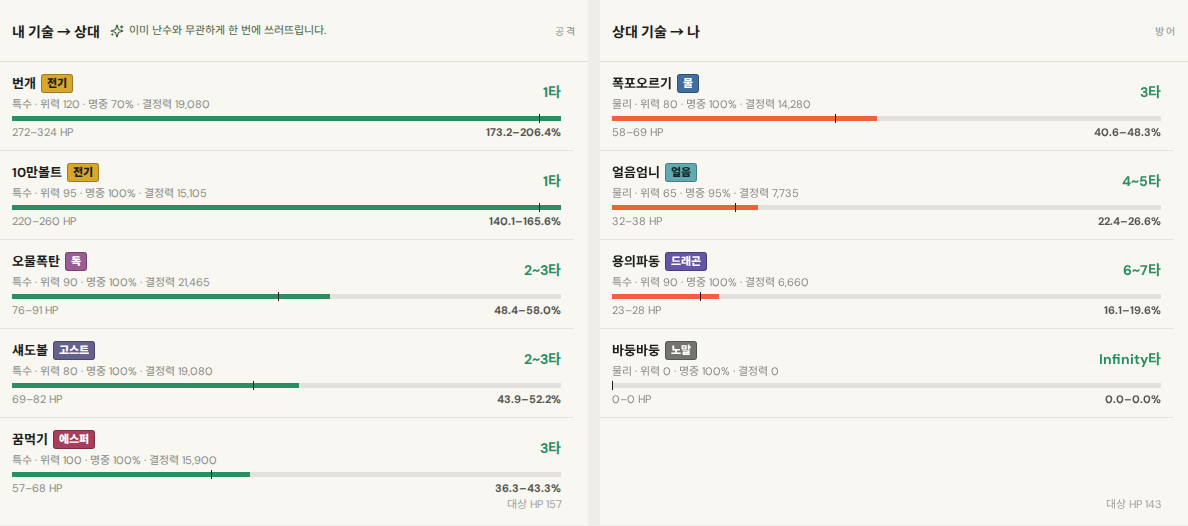
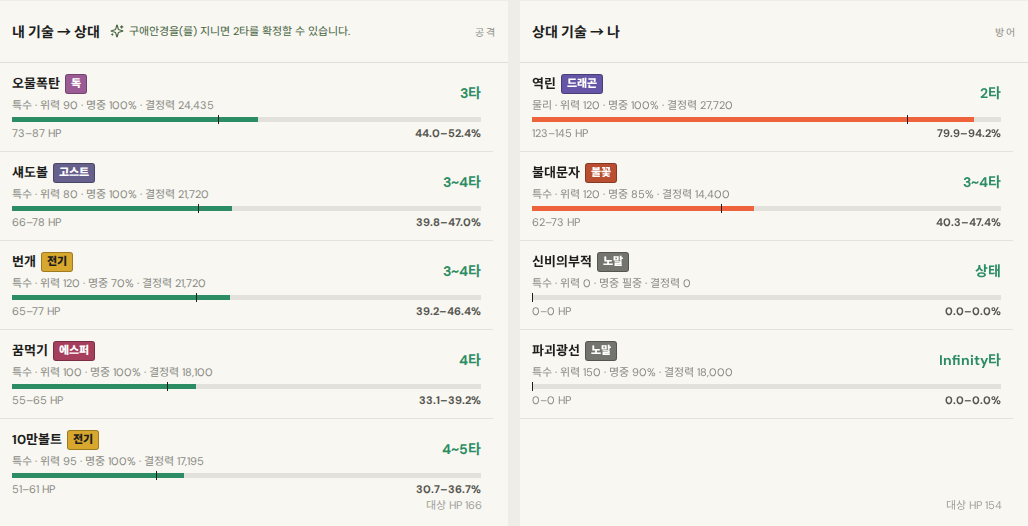
Publish ZZM 8b2d6ee

diff --git a/manual.html b/manual.html
@@ -21,8 +21,8 @@
     <p class="eyebrow">HGSS · USER MANUAL</p>
     <h1>잠빙이 꼭 필요한지,<br>같이 계산해 봅니다.</h1>
     <p class="lead">고스트 타입 챌린지의 잠빙 이야기를 보다가 “이 파티에도 잠재파워 얼음이 꼭 필요한가?”가 궁금해서 만든 취미 도구입니다. 필요한 구성인지, 필요하다면 최소 어느 위력부터 쓸 만한지 살펴봅니다. 일단 위력 70부터 뽑고 보는 마음은 잠깐 내려놓습니다.</p>
-    <p class="meta">하트골드·소울실버 / 4세대 계산 기준 · 매뉴얼 확인일 2026. 09. 06.</p>
-    <p class="meta">캡처는 고스트 샘플을 사용한 실제 배포 화면입니다. 이미지를 누르면 원본을 크게 볼 수 있습니다. 화면의 수치는 선택한 파티·상대·레벨 조건의 예시입니다.</p>
+    <p class="meta">하트골드·소울실버 / 4세대 계산 기준 · 매뉴얼 확인일 2026. 09. 08.</p>
+    <p class="meta">캡처는 고스트·얼음 샘플을 사용한 화면입니다. 이미지를 누르면 원본을 크게 볼 수 있습니다. 기존 캡처의 배치·수치는 업데이트 전 예시일 수 있으며, 아래 설명과 현재 화면의 설정을 함께 확인합니다.</p>
   </div>
   <div class="layout">
     <nav class="toc" aria-label="매뉴얼 목차">
@@ -63,6 +63,19 @@
         <h3>최근 작업을 이어서 엽니다</h3>
         <p><strong>‘최근 작업 불러오기’</strong>는 이 브라우저에 남아 있는 파티 설정과 분석 화면을 복원합니다. 메인과 분석 화면 위쪽에서 사용할 수 있습니다. 기록이 없으면 버튼이 비활성화됩니다.</p>
         <p>설정은 브라우저에 자동으로 보관됩니다. ‘샘플 선택’으로 돌아가도 최근 작업을 다시 불러올 수 있습니다. 다만 여러 작업의 이력 목록은 아니며, 새 작업을 진행하면 최근 기록도 바뀝니다. 다른 기기·브라우저로 자동 동기화되지 않고, 사이트 데이터 삭제나 비공개 브라우징 종료로 사라질 수 있습니다.</p>
+        <h3>여러 파티를 보관하거나 다른 기기로 옮깁니다</h3>
+        <p>상단 <strong>‘파티 저장·불러오기’</strong>를 엽니다. 최근 작업과 달리 프리셋은 이름을 붙여 별도로 보관합니다.</p>
+        <ul>
+          <li><strong>새 프리셋 저장:</strong> 현재 파티와 계산 기준을 저장합니다. 기존 프리셋을 고른 뒤 ‘선택 프리셋 덮어쓰기’를 누르면 확인 후 현재 설정으로 교체합니다.</li>
+          <li><strong>팀 내보내기:</strong> 현재 파티를 <code>.zzm-team.json</code> 파일로 내려받습니다. 브라우저 데이터 삭제에 대비한 백업이나 다른 기기로 옮길 때 사용합니다.</li>
+          <li><strong>팀 가져오기:</strong> 내보낸 JSON 파일을 읽고 미리보기를 확인한 뒤 ‘이 파티 불러오기’를 누릅니다. 파일 선택만으로 현재 파티가 교체되지는 않습니다.</li>
+        </ul>
+        <p>프리셋을 불러오면 현재 작업 파티와 계산 기준이 바뀝니다. 기존 작업도 남기려면 먼저 저장합니다. 기술 네 칸을 직접 채워야 저장되는 것은 아닙니다. 분석에서는 해당 시점에 쓸 수 있는 기술 후보를 별도로 계산합니다.</p>
+        <figure class="manual-shot"><a href="./manual-images/13-team-library.png" target="_blank" rel="noopener"><img src="./manual-images/13-team-library.png" alt="현재 파티를 이름별 프리셋 또는 팀 JSON 파일로 보관하는 창" loading="lazy"></a><figcaption><strong>파티 보관 · 자동 저장과 별도 프리셋</strong><br>현재 작업을 여러 육성안으로 나눠 보관하려면 이름을 달리해 저장합니다.</figcaption></figure>
+        <h3>게임 세이브에서 현재 파티를 가져옵니다</h3>
+        <p><strong>‘세이브에서 파티 가져오기’</strong>에서 게임 내 리포트로 저장한 HGSS <code>.dsv</code> 또는 512 KiB <code>.sav</code>를 선택합니다. 에뮬레이터의 강제 저장·상태 저장 파일은 지원하지 않습니다. 현재 플레이 버전을 고르고, 종·레벨·도구·특성·기술·IV·EV 미리보기를 확인한 뒤 ‘이 파티로 분석하기’를 누릅니다.</p>
+        <p>파일은 브라우저에서 읽으며 서버로 전송하거나 원본을 수정하지 않습니다. <strong>현재 파티만</strong> 가져옵니다. 박스·가방·스토리 진행은 가져오지 않으므로, 세이브를 읽었다고 실제 소지 도구나 진행 시점까지 자동 검증되는 것은 아닙니다.</p>
+        <figure class="manual-shot"><a href="./manual-images/14-save-import.png" target="_blank" rel="noopener"><img src="./manual-images/14-save-import.png" alt="게임 내 리포트 파일과 현재 플레이 버전을 선택하는 세이브 가져오기 창" loading="lazy"></a><figcaption><strong>세이브 가져오기 · 원본 수정 없이 파티만 읽기</strong><br>팀 JSON 파일은 앞의 ‘팀 가져오기’, 게임 리포트는 이 창에서 엽니다.</figcaption></figure>
       </section>
 
       <section class="chapter" id="journey" aria-labelledby="journey-title">
@@ -88,7 +101,7 @@
 
       <section class="chapter" id="party" aria-labelledby="party-title">
         <h2 id="party-title"><small>04 / PARTY &amp; RESOURCES</small>내 파티와 입수 조건을 조정합니다</h2>
-        <p>여정 매트릭스 위쪽에서 기존 파티원의 <strong>‘설정’</strong> 또는 빈 칸의 <strong>‘추가’</strong>를 누르면 편집 창이 열립니다. 최대 여섯 칸을 사용합니다.</p>
+        <p>분석과 여정 모두 <strong>‘+ 포켓몬 추가’·‘파티 편집’</strong>에서 같은 편집 창을 사용합니다. 매트릭스의 ‘설정’ 또는 빈 칸의 ‘추가’로도 열 수 있습니다. 최대 여섯 칸을 사용합니다.</p>
         <ol class="steps">
           <li><strong>바꿀 칸을 고릅니다.</strong> 기존 칸을 선택한 상태로 새 포켓몬을 누르면 그 칸을 교체합니다. 빈 칸을 선택하면 추가합니다. ‘제외’는 선택한 파티원을 빼는 버튼입니다.</li>
           <li><strong>버전과 진행 시점을 확인합니다.</strong> 하트골드·소울실버와 ‘진행 시점’으로 입수 후보를 확인합니다. 이 시점 선택은 편집 창의 후보 목록 기준이며 여정의 모든 전투 시점을 한꺼번에 바꾸지 않습니다.</li>
@@ -102,37 +115,46 @@
         <p><strong>‘사파리 조건 충족’</strong>은 필요한 오브젝트 배치와 경과일을 실제로 확인했을 때 체크합니다. 이 체크는 후보 선택을 위한 확인이며, 모든 여정 시나리오에서 사파리 오브젝트 제한을 해제하는 보증은 아닙니다. 추가 뒤에도 셀의 입수 조건을 확인합니다.</p>
         <figure class="manual-shot"><a href="./manual-images/07-party-stats.png" target="_blank" rel="noopener" aria-label="파티 편집 · 특성·도구·성격·IV·EV 원본 크게 보기"><img width="1220" height="434" src="./manual-images/07-party-stats.png" alt="파티 편집 · 특성·도구·성격·IV·EV" loading="lazy" decoding="async"></a><figcaption><strong>파티 편집 · 특성·도구·성격·IV·EV</strong><br>눌러서 편집을 선택하면 조정 화면으로 전환됩니다. 위쪽 포켓몬 선택으로 후보 화면에 돌아갑니다. <a href="./manual-images/07-party-stats.png" target="_blank" rel="noopener">원본 크게 보기 ↗</a></figcaption></figure>
         <h3>진화와 외부 진화 후 반환</h3>
+        <p>추가할 진화 경로가 하나면 바로 파티에 넣습니다. 여러 경로가 있으면 이미지가 있는 진화형 선택에서 목표를 정하고 추가합니다. 선택한 최종 진화형을 모든 전투에서 바로 쓰는 것은 아니며, 각 전투의 레벨·입수 조건에 맞는 형태로 계산합니다. 능력치 조정 화면에서는 ‘← 포켓몬 선택’으로 후보 목록에 돌아갑니다.</p>
+        <figure class="manual-shot"><a href="./manual-images/17-evolution-choice.png" target="_blank" rel="noopener"><img src="./manual-images/17-evolution-choice.png" alt="뚜벅쵸에서 라플레시아 또는 아르코 등 목표 진화형을 고르는 화면" loading="lazy"></a><figcaption><strong>분기 진화 · 파티에 넣기 전에 목표 선택</strong><br>진화형을 선택하고 추가·교체 버튼을 누릅니다. 회색 선택지의 제한 사유도 확인합니다.</figcaption></figure>
         <p>계산은 등록된 진화 규칙에 따라 레벨·친밀도·일반 통신진화 등을 반영합니다. 진화 도구와 방법에는 별도 조건이 있으므로 레벨만 올렸다고 모든 진화가 열리지는 않습니다. 사용자가 고를 수 있는 친밀도·능력치 분기 등은 ‘가지 진화’에 표시됩니다.</p>
         <p><strong>‘외부 진화 후 반환’</strong>은 HGSS에서 원종을 먼저 얻은 뒤, 등록된 외부 진화 조건을 거쳐 같은 개체가 돌아온다고 가정하는 예외입니다. 다른 게임에서 아무 포켓몬이나 반입해도 된다는 뜻은 아닙니다. 자신의 챌린지가 외부 교환을 허용하는지와 셀의 진화 경로를 함께 확인합니다.</p>
         <h3>챌린지 스타터는 명시적인 예외입니다</h3>
         <p>‘챌린지 스타터’에서 규칙을 고르면 해당 버전에 등록된 시작 지급 후보를 볼 수 있습니다. 실제 지급 후보를 선택한 파티원에는 ‘챌린지 스타트 지급’ 근거가 표시됩니다. 일반 야생 입수와 다른 조건이며, 같은 종을 평범하게 선택했다고 자동으로 예외가 생기는 것은 아닙니다.</p>
         <p>샘플에는 이런 예외 스타팅이 포함될 수 있습니다. 일반 샘플의 기본 IV·EV 안내를 모든 예외 스타터에 그대로 적용하지 말고, 선택 후 표시된 실제 수치를 확인합니다.</p>
+        <p>추천 샘플은 일반 IV 10 기준에서 일부 멤버의 EV를 합계 안에서 나눠 보완한 구성입니다. 예외 지급 개체는 별도 조건을 유지합니다. 현재 기본 샘플은 구애 시리즈를 제외하는 방향으로 보완했으며, 내 자폭·대폭발을 대응 수단으로 사용하지 않습니다. 수동으로 다른 도구나 성격을 선택한 결과와 샘플 기본 결과를 구별합니다. 여러 대안을 검토한 추천이지 모든 파티 조합의 최적해를 증명한 결과는 아닙니다.</p>
       </section>
 
       <section class="chapter" id="matrix" aria-labelledby="matrix-title">
         <h2 id="matrix-title"><small>05 / READ THE MATRIX</small>매트릭스의 한 칸을 읽습니다</h2>
-        <p><strong>행은 상대 포켓몬, 열은 내 파티원</strong>입니다. 한 칸은 그 둘의 비교입니다. 각 상대에게 성공 셀이 하나 이상 있으면 그 상대를 ‘대응’한 것으로 셉니다. ‘대응 3/4마리’는 상대 네 마리 중 세 마리에 계산상 대응 수단이 있다는 뜻입니다.</p>
+        <p><strong>행은 상대 포켓몬, 열은 내 파티원</strong>입니다. 한 칸은 그 둘의 비교입니다. 요약은 상대별로 가장 좋은 대응 경로를 한 번만 셉니다. 예를 들어 <strong>직접 대응 2/4마리 · 회복루프 대응 1마리 · 미대응 1마리</strong>라면 네 상대 중 둘은 직접 공격, 하나는 회복약을 섞는 경로로만 대응하고 하나는 아직 대응하지 못한 상태입니다.</p>
         <dl class="status-list">
-          <dt>공략 성공</dt><dd>현재 계산 기준에서 유리한 결과입니다. 일반 판정은 내 최저 피해 기준 타수와 상대 최대 피해 기준 피격 타수, 선공 조건을 비교합니다. 같은 타수라면 확실한 선공 여부가 중요합니다.</dd>
-          <dt>공략 실패</dt><dd>현재 조건에서 성공 기준을 충족하지 못했습니다. 다른 파티원, 도구, 능력치나 잠재파워를 비교할 출발점입니다. 게임에서 어떤 방법으로도 이길 수 없다는 뜻은 아닙니다.</dd>
+          <dt>돌파가능 · 직접 대응</dt><dd>현재 공격으로 유리한 결과입니다. 일반 판정은 내 최저 피해 기준 타수와 상대 최대 피해 기준 피격 타수, 선공 조건을 비교합니다. 같은 타수라면 확실한 선공 여부가 중요합니다. 명중 실패나 급소까지 없는 승리를 보장하지는 않습니다.</dd>
+          <dt>회복루프돌파가능</dt><dd>직접 돌파는 어렵지만, 계산에 포함된 고급상처약 회복 경로로 대응할 수 있습니다. 직접 대응과 별도로 셉니다.</dd>
+          <dt>돌파불가</dt><dd>현재 조건에서 위 두 기준을 충족하지 못했습니다. 다른 파티원, 도구, 능력치나 잠재파워를 비교할 출발점입니다. 게임에서 어떤 방법으로도 이길 수 없다는 뜻은 아닙니다.</dd>
           <dt>공략 제외</dt><dd>해당 시점의 입수 조건 등에 맞지 않는 파티원입니다. 여정에서는 이 셀을 눌러 상세 분석으로 이동할 수 없습니다. 모든 파티원이 제외되면 상대 자체가 사라지는 대신 ‘사용 가능한 파티원 없음’으로 남습니다.</dd>
           <dt>계산 불가</dt><dd>필수 정보나 지원하지 않는 효과 때문에 판단할 수 없습니다. 성공으로 세지 않습니다. 실패와도 구별해서 확인합니다.</dd>
         </dl>
         <h3>공격·피격·선공 표시</h3>
         <p>셀에는 실제 적용 종과 레벨, 공격·피격 대표 기술, 타입, 명중률, 타수, 피해 HP와 비율이 표시됩니다. 아래의 기술 습득·진화·입수 설명은 그 결과를 만든 조건입니다. 사용 가능한 셀을 누르면 해당 내 포켓몬과 상대를 선택한 상세 분석으로 이동합니다.</p>
-        <figure class="manual-shot"><a href="./manual-images/11-matrix-cells.png" target="_blank" rel="noopener" aria-label="매트릭스 · 한 상대와 내 파티의 비교 원본 크게 보기"><img width="1170" height="386" src="./manual-images/11-matrix-cells.png" alt="매트릭스 · 한 상대와 내 파티의 비교" loading="lazy" decoding="async"></a><figcaption><strong>매트릭스 · 한 상대와 내 파티의 비교</strong><br>목호의 갸라도스 한 행입니다. 선공 → 공격 → 피격 → 태그·입수 근거 순서로 읽습니다. 클릭하면 해당 조합을 선택합니다. <a href="./manual-images/11-matrix-cells.png" target="_blank" rel="noopener">원본 크게 보기 ↗</a></figcaption></figure>
+        <figure class="manual-shot"><a href="./manual-images/11-matrix-cells.png" target="_blank" rel="noopener" aria-label="매트릭스 · 한 상대와 내 파티의 비교 원본 크게 보기"><img width="1170" height="386" src="./manual-images/11-matrix-cells.png" alt="매트릭스 · 한 상대와 내 파티의 비교" loading="lazy" decoding="async"></a><figcaption><strong>매트릭스 · 한 상대와 내 파티의 비교</strong><br>목호의 망나뇽 한 행입니다. 선공 → 공격 → 피격 → 태그·입수 근거 순서로 읽습니다. 클릭하면 해당 조합을 선택합니다. <a href="./manual-images/11-matrix-cells.png" target="_blank" rel="noopener">원본 크게 보기 ↗</a></figcaption></figure>
         <h3>작은 태그에 담긴 조건</h3>
         <p><span class="tag">잠빙52+</span> 같은 표시는 <strong>특공 EV 252와 최소 합법 IV 예시</strong>를 기준으로, 잠재파워 얼음 위력 52부터 확정 1타가 가능한 추천이라는 뜻입니다. 숫자는 표시 형식의 예시입니다. 현재 파티의 잠재파워가 이미 그 타입·위력이라는 뜻도, 파티에 꼭 필요하다는 뜻도 아닙니다.</p>
         <p><span class="tag">돌파가능</span>은 직접 공격으로 유리한 경우, <span class="tag">회복루프돌파가능</span>은 직접 돌파는 어렵지만 충분한 고급상처약(200 HP 회복)을 섞어 공격할 수 있는 경우입니다. 둘 다 아니면 <span class="tag">돌파불가</span>로 표시합니다.</p>
         <p>분석·여정의 전체/트레이너별/선택 포켓몬 요약은 직접 대응, 회복루프 대응, 미대응, 계산 불가를 별도로 집계합니다. 같은 상대에 직접 대응과 회복루프 대응이 모두 있으면 직접 대응에만 포함합니다. 회복루프 대응은 직접 대응할 파티원 없이 회복 경로로만 돌파 가능한 상대 수이며 황색으로 구분합니다. 모든 파티원이 입수 전이면 미대응에 포함하며 계산 불가와 섞지 않습니다.</p>
         <p><span class="tag">회복루프가능</span>은 맞은 결과를 확인한 뒤 다음 행동을 고르는 피해 기준입니다. 남은 HP가 다음 급소 최대 피해보다 많으면 공격하고, 이하면 고급상처약으로 회복합니다. 따라서 급소가 HP 50%를 넘어도 일반 최대 피해+급소 최대 피해가 HP보다 작으면 일반타 뒤 한 번 더 공격할 수 있습니다. 일반 피해는 200 미만, 급소 피해는 200 이하여야 회복 중에도 버틸 수 있습니다. 급소를 먼저 맞거나 연속 급소가 나오면 회복을 반복합니다. 회복량은 최대 HP를 넘기지 않는 200 HP입니다. 이 운영이 불가능하고 빗나감·낮은 난수·급소 회피·힘껏펀치 조건에 의존하면 <span class="tag">조건부 회복루프 가능</span>이며 성공으로 올리지 않습니다. 아이템 재고·PP·상태이상·추가 효과까지 포함한 무한 회복이나 승리 보장은 아닙니다. 프레젠트 승률은 별도의 PP 제한 회복 계획으로 계산합니다.</p>
         <p class="small">검사 중 대응 수치는 완료된 계산만 반영해 변할 수 있습니다. 전체 판정은 계산 완료 여부와 ‘계산 불가’ 개수를 함께 읽습니다. 태그를 놓쳤다면 상세 분석에서 같은 조건을 다시 확인합니다.</p>
+        <p><span class="tag">급소주의</span> 앞의 딱구리 이미지는 경고 아이콘입니다. <strong>현재 공격 순서에서 상대 공격 한 번이 급소가 되면 쓰러질 수 있는 직접 돌파 셀</strong>에 붙습니다. 돌파가능 판정은 유지합니다. 급소 확률을 계산해 전체 승률로 바꾼 숫자는 아니며, 태그가 없다고 모든 실전 변수가 안전하다는 뜻도 아닙니다.</p>
+        <figure class="manual-shot narrow"><a href="./manual-images/20-critical-warning.png" target="_blank" rel="noopener"><img style="width:auto;max-width:100%;margin:16px auto" src="./manual-images/20-critical-warning.png" alt="딱구리 아이콘이 붙은 급소주의 태그" loading="lazy"></a><figcaption><strong>급소주의 · 직접 돌파 판정은 유지</strong><br>아이콘 자체가 별도 파티원이나 추천 포켓몬을 뜻하지는 않습니다.</figcaption></figure>
+        <figure class="manual-shot"><a href="./manual-images/15-recovery-coverage.png" target="_blank" rel="noopener"><img src="./manual-images/15-recovery-coverage.png" alt="얼음 샘플 여정의 직접 대응과 회복루프 대응을 분리한 집계" loading="lazy"></a><figcaption><strong>현재 여정 · 대응 경로를 따로 읽기</strong><br>직접 대응과 회복루프 대응은 중복하지 않습니다. 약이 필요한 상대를 직접 대응에 합쳐 읽지 않습니다.</figcaption></figure>
       </section>
 
       <section class="chapter" id="analysis" aria-labelledby="analysis-title">
         <h2 id="analysis-title"><small>06 / DETAILED ANALYSIS</small>어디에서 막히는지 확인합니다</h2>
         <h3>상대와 내 포켓몬 선택</h3>
         <p>상대 트레이너 목록에서 이름·클래스·ID를 검색할 수 있습니다. 상대 포켓몬 종·도감번호, 만나는 위치, 트레이너 클래스, 최소·최대 레벨, 싱글·더블 필터를 함께 사용해 목록을 좁힙니다. 결과가 없으면 입력한 조건을 지우거나 선택을 ‘전체’로 되돌립니다.</p>
+        <p><strong>‘위치 정보’는 기본적으로 ‘위치 있는 상대만’</strong>입니다. 찾는 트레이너가 없으면 ‘위치 없는 상대 포함’ 또는 ‘위치 없는 상대만’으로 바꿉니다. 위치 유무와 전투 시점 지정 여부는 별개입니다.</p>
+        <figure class="manual-shot narrow"><a href="./manual-images/18-location-filter.png" target="_blank" rel="noopener"><img src="./manual-images/18-location-filter.png" alt="위치가 등록되지 않은 트레이너를 포함하거나 따로 찾는 위치 정보 필터" loading="lazy"></a><figcaption><strong>목록에 상대가 없을 때</strong><br>이름 검색과 별도로 위치 정보 필터를 확인합니다.</figcaption></figure>
         <p>위쪽 ‘내 포켓몬’에서 내 파티원을, 트레이너 이름 아래 상대 탭에서 상대 포켓몬을 고릅니다. 전체 상성 매트릭스의 셀을 누르면 둘을 한 번에 선택합니다. 열 머리글과 상대 행 이름으로 각 축만 바꿀 수도 있습니다.</p>
         <p>여정에서 들어오면 선택한 전투의 시점을 이어받습니다. 상세 분석에서 트레이너를 바꾸면 등록된 주요 전투는 시점을 다시 참조하고, 그 외에는 미지정일 수 있습니다. ‘기술 습득 정보’의 현재 체크포인트/전투 시점 미지정 표시를 확인합니다.</p>
         <figure class="manual-shot narrow"><a href="./manual-images/09-trainer-filters.png" target="_blank" rel="noopener" aria-label="상세 분석 · 상대 검색 조건 원본 크게 보기"><img width="283" height="195" src="./manual-images/09-trainer-filters.png" alt="상세 분석 · 상대 검색 조건" loading="lazy" decoding="async"></a><figcaption><strong>상세 분석 · 상대 검색 조건</strong><br>상대 포켓몬·위치·클래스·레벨·싱글/더블 조건을 좁히는 영역입니다. 이름·ID 검색은 이 영역 위쪽에 있습니다. <a href="./manual-images/09-trainer-filters.png" target="_blank" rel="noopener">원본 크게 보기 ↗</a></figcaption></figure>
@@ -148,6 +170,7 @@
         <figure class="manual-shot"><a href="./manual-images/08-build-controls.png" target="_blank" rel="noopener" aria-label="상세 분석 · 내 파티와 육성값 원본 크게 보기"><img width="1188" height="652" src="./manual-images/08-build-controls.png" alt="상세 분석 · 내 파티와 육성값" loading="lazy" decoding="async"></a><figcaption><strong>상세 분석 · 내 파티와 육성값</strong><br>맨 위에서 내 포켓몬을 고르고 도구·특성·성격·IV·EV를 조정합니다. 초기값 버튼은 항목별로 동작합니다. <a href="./manual-images/08-build-controls.png" target="_blank" rel="noopener">원본 크게 보기 ↗</a></figcaption></figure>
         <h3>요약 카드와 피해 표</h3>
         <figure class="manual-shot"><a href="./manual-images/04-detail-analysis.png" target="_blank" rel="noopener"><img width="1188" height="331" src="./manual-images/04-detail-analysis.png" alt="팬텀과 망나뇽의 종·레벨·HP·특성 및 공격·피격·선공 요약" loading="lazy" decoding="async"></a><figcaption><strong>상세 분석 · 선택한 두 포켓몬과 요약</strong><br>내 포켓몬과 상대의 종·레벨·HP가 의도한 조건인지 먼저 확인한 뒤, 공격·피격 타수와 선공 조건을 읽습니다. <a href="./manual-images/04-detail-analysis.png" target="_blank" rel="noopener">원본 크게 보기 ↗</a></figcaption></figure>
+        <figure class="manual-shot"><a href="./manual-images/19-summary-cards.png" target="_blank" rel="noopener"><img src="./manual-images/19-summary-cards.png" alt="대표 공격·피격·추천 보완·선공 조건을 나눈 네 요약 카드" loading="lazy"></a><figcaption><strong>공격·피격·선공을 각각 확인</strong><br>한 방을 낼 화력과 먼저 공격할 스피드는 서로 다른 조건입니다.</figcaption></figure>
         <p>‘가장 빠른 공략’은 내 대표 공격과 타수를, ‘최대 피격 위험’은 상대 대표 공격과 피해를 보여 줍니다. ‘추천 보완’은 확정 타수를 개선할 육성 방향을 제안합니다. ‘선공 조건’은 현재·상대 스피드와 필요한 스피드 EV를 보여 주며, EV 252로도 후공인 경우도 표시합니다.</p>
         <p>‘내 기술 → 상대’와 ‘상대 기술 → 나’에서 기술별 물리·특수 구분, 위력, 명중, 결정력, 피해 범위를 비교합니다. <strong>확정 1타</strong>는 최저 피해로도 쓰러뜨릴 수 있다는 뜻입니다. 최대 피해가 100%를 넘는 것만으로 확정 1타가 되지는 않습니다.</p>
         <p>HP는 피해량의 기준입니다. 내 파티 탭과 대결 요약의 HP, 피해 표 아래 ‘대상 HP’를 함께 확인합니다. 이 화면에서 HP를 직접 입력하는 기능은 없습니다. 결정력은 공격 측 화력, 물내·특내는 물리·특수 내구를 비교하는 지표이며 승률의 퍼센트가 아닙니다.</p>
@@ -158,7 +181,10 @@
         <figure class="manual-shot"><a href="./manual-images/12-move-acquisition.png" target="_blank" rel="noopener" aria-label="상세 분석 · 기술 습득 위치와 시점 원본 크게 보기"><img width="1188" height="1217" src="./manual-images/12-move-acquisition.png" alt="상세 분석 · 기술 습득 위치와 시점" loading="lazy" decoding="async"></a><figcaption><strong>상세 분석 · 기술 습득 위치와 시점</strong><br>기술 이름 옆 상태와 각 카드의 위치·시점·자원 안내를 확인합니다. 입수 근거를 읽는 목록이지 기술 장착 버튼은 아닙니다. <a href="./manual-images/12-move-acquisition.png" target="_blank" rel="noopener">원본 크게 보기 ↗</a></figcaption></figure>
         <h3>딜리버드 프레젠트 전용 패널</h3>
         <p>해당 조건에서는 일반 타수 비교 대신 프레젠트 승률 패널이 나옵니다. 프레젠트만 사용하고 상대는 대표 공격을 반복하며, 교체·내 회복 아이템·급소는 제외합니다. 프레젠트 PP 15, 상대 기술 PP 20을 가정하고, 명중·위력·상대 회복 분기를 계산합니다. 이 제한 아래 승률 80% 이상을 성공으로 표시하며 일반 확정 공략과 구별합니다.</p>
-        <p>계산된 승률이 80% 미만이면 공략 실패입니다. 계산 불가는 조건 미지원이나 계산 한도로 미확정인 경우입니다. 직접 돌파가 안 되고 급소까지 안전하게 회복할 수 있으면 고급상처약→프레젠트도 계산합니다. 회복마다 HP에 200을 더해 최대 HP로 제한한 뒤 피격을 뺍니다. 추가 회복이 필요하면 그 턴과 상대 PP도 차감합니다. 상대 PP 20 안에서 최대 10회 공격하며, 추가 회복이 많으면 공격 기회는 줄어듭니다. 필요한 약 수량은 결과에 표시합니다. 승률 80% 이상일 때만 회복루프돌파가능으로 표시하며 상대의 다른 기술·상태이상·추가 효과는 별도입니다.</p>
+        <p>계산된 승률이 <strong>80% 미만이면 공략 실패</strong>입니다. 계산 불가는 조건 미지원이나 계산 한도로 미확정인 경우입니다. 직접 돌파가 안 되고 급소까지 안전하게 회복할 수 있으면 고급상처약을 섞는 경로도 계산합니다.</p>
+        <p>회복 경로는 <strong>남은 HP로 다음 최대 급소를 버티면 공격하고, 그렇지 않으면 회복</strong>합니다. 매번 공격 전에 약을 쓰는 고정 교대 방식이 아닙니다. 고급상처약은 HP 200을 더하되 최대 HP를 넘지 않으며, 공격·회복 모두 상대 PP를 소비합니다. 프레젠트 PP 15·상대 PP 20 안에서 가능한 공격 횟수와 약 수량을 계산합니다. 상대 자뭉열매의 1회 회복도 반영합니다. 현재 내 지닌 도구 등 미지원 조건은 계산 불가로 남을 수 있습니다.</p>
+        <p>예를 들어 얼음 샘플의 딜리버드 대 호일 스라크는 현재 설정에서 <strong>프레젠트 11회·고급상처약 9개, 약 82.87%</strong>로 회복루프 대응입니다. 상대 자뭉열매를 포함한 전용 계산 예시이며 다른 레벨·능력치에 공통인 수치는 아닙니다. 80% 이상이어도 상대의 다른 기술·상태이상·추가 효과까지 포함한 실제 전투 전체 승률은 아닙니다.</p>
+        <figure class="manual-shot"><a href="./manual-images/16-present-recovery.png" target="_blank" rel="noopener"><img src="./manual-images/16-present-recovery.png" alt="딜리버드 대 스라크의 프레젠트 회복 병행 승률과 고급상처약 수량" loading="lazy"></a><figcaption><strong>프레젠트 전용 · 회복 병행 판정</strong><br>승률만 보지 말고 사용 전략, 필요한 약 수량, PP와 제외 조건을 함께 읽습니다.</figcaption></figure>
         <p>위쪽 <strong>‘주요 전투 여정’</strong>으로 돌아가 조정한 파티를 다시 확인합니다. <strong>‘샘플 선택’</strong>은 시작 화면으로 이동합니다.</p>
       </section>
 
@@ -172,10 +198,11 @@
           <li><strong>위력 30~70을 비교합니다.</strong> ‘현재 EV에서 확정 1타 최소 위력’과 피해 HP·비율을 확인합니다. 타입을 바꾸면 그 타입의 최소 확정 1타 위력, 없으면 70으로 선택값이 바뀝니다.</li>
           <li><strong>표시된 IV와 실제 파티를 비교합니다.</strong> 필요하다면 ‘이 잠재능력으로 변경’을 누르고, 본래 파티의 공격·방어·스피드 결과를 다시 확인합니다.</li>
         </ol>
-        <figure class="manual-shot"><a href="./manual-images/05-hidden-power.png" target="_blank" rel="noopener" aria-label="잠재파워 · 타입·위력·특공 EV와 IV 예시 원본 크게 보기"><img width="868" height="464" src="./manual-images/05-hidden-power.png" alt="잠재파워 · 타입·위력·특공 EV와 IV 예시" loading="lazy" decoding="async"></a><figcaption><strong>잠재파워 · 타입·위력·특공 EV와 IV 예시</strong><br>팬텀 대 목호의 망나뇽 예시입니다. 여기서는 특공 EV 252·얼음 위력 61부터 확정 1타로 계산됩니다. 이 값은 모든 파티에 공통인 기준이 아닙니다. <a href="./manual-images/05-hidden-power.png" target="_blank" rel="noopener">원본 크게 보기 ↗</a></figcaption></figure>
+        <figure class="manual-shot"><a href="./manual-images/05-hidden-power.png" target="_blank" rel="noopener" aria-label="잠재파워 · 타입·위력·특공 EV와 IV 예시 원본 크게 보기"><img width="868" height="464" src="./manual-images/05-hidden-power.png" alt="잠재파워 · 타입·위력·특공 EV와 IV 예시" loading="lazy" decoding="async"></a><figcaption><strong>잠재파워 · 타입·위력·특공 EV와 IV 예시</strong><br>팬텀 대 목호의 망나뇽 예시입니다. 추천 최소 위력과 현재 선택한 위력·특공 EV를 구별하고, IV 예시와 피해를 확인한 뒤 적용합니다. 이 값은 모든 파티에 공통인 기준이 아닙니다. <a href="./manual-images/05-hidden-power.png" target="_blank" rel="noopener">원본 크게 보기 ↗</a></figcaption></figure>
         <h3>‘최소 합법 IV’는 육성 최적값이 아닙니다</h3>
         <p>계산기는 선택한 타입·위력을 만족하는 <strong>여섯 IV의 합이 최소인 합법 예시</strong>를 사용합니다. 잠재파워 공식에 필요한 비트만 남긴 낮은 IV 조합이므로, 화면에 0~3 같은 값이 나오는 것은 오류가 아닙니다.</p>
         <p>이 표는 높은 능력치를 보존하는 최적 IV 추천이나 실제 교배 난이도 안내가 아닙니다. 같은 타입·위력을 만드는 더 높은 IV 조합도 있을 수 있습니다. IV를 올리면 특공뿐 아니라 체력·내구·스피드가 달라지고, IV의 바뀐 비트에 따라 잠재파워 타입·위력 자체도 바뀔 수 있습니다.</p>
+        <p><strong>추천 최소 위력과 현재 선택 위력은 다릅니다.</strong> 매트릭스의 ‘잠빙63+’는 추천 기준이고 계산기의 ‘위력 69’는 지금 선택한 비교값입니다. 적용 버튼을 누르기 전 선택 위력과 IV 예시를 함께 확인합니다. 적용으로 IV가 달라지면 특공·내구·스피드와 추천 기준도 다시 계산되므로, 적용 전후 숫자가 항상 같지는 않습니다.</p>
         <div class="note warning"><p><strong>적용 버튼은 IV 여섯 개만 바꿉니다.</strong> 도구·성격·노력치는 유지하며, 잠재파워를 기술 슬롯에 추가하지 않습니다. 계산기의 특공 EV 252를 보고 적용해도 파티의 특공 EV가 252로 바뀌지는 않습니다. 적용 뒤 상세 분석의 EV와 기술 습득 정보를 별도로 확인합니다.</p></div>
         <h3>추천 숫자를 읽는 예</h3>
         <div class="example"><p><strong>가상의 예시: ‘잠재파워 얼음 · 특공 EV 252 · 위력 52부터 확정 1타’</strong></p><p>현재 선택한 포켓몬·상대·레벨·성격·도구와 최소 합법 IV 예시에서, 특공 EV 252라면 위력 52부터 최저 피해로 한 번에 쓰러뜨릴 수 있다는 뜻입니다. 실전에서 모든 얼음 잠재파워가 위력 52면 된다는 뜻은 아닙니다.</p></div>
